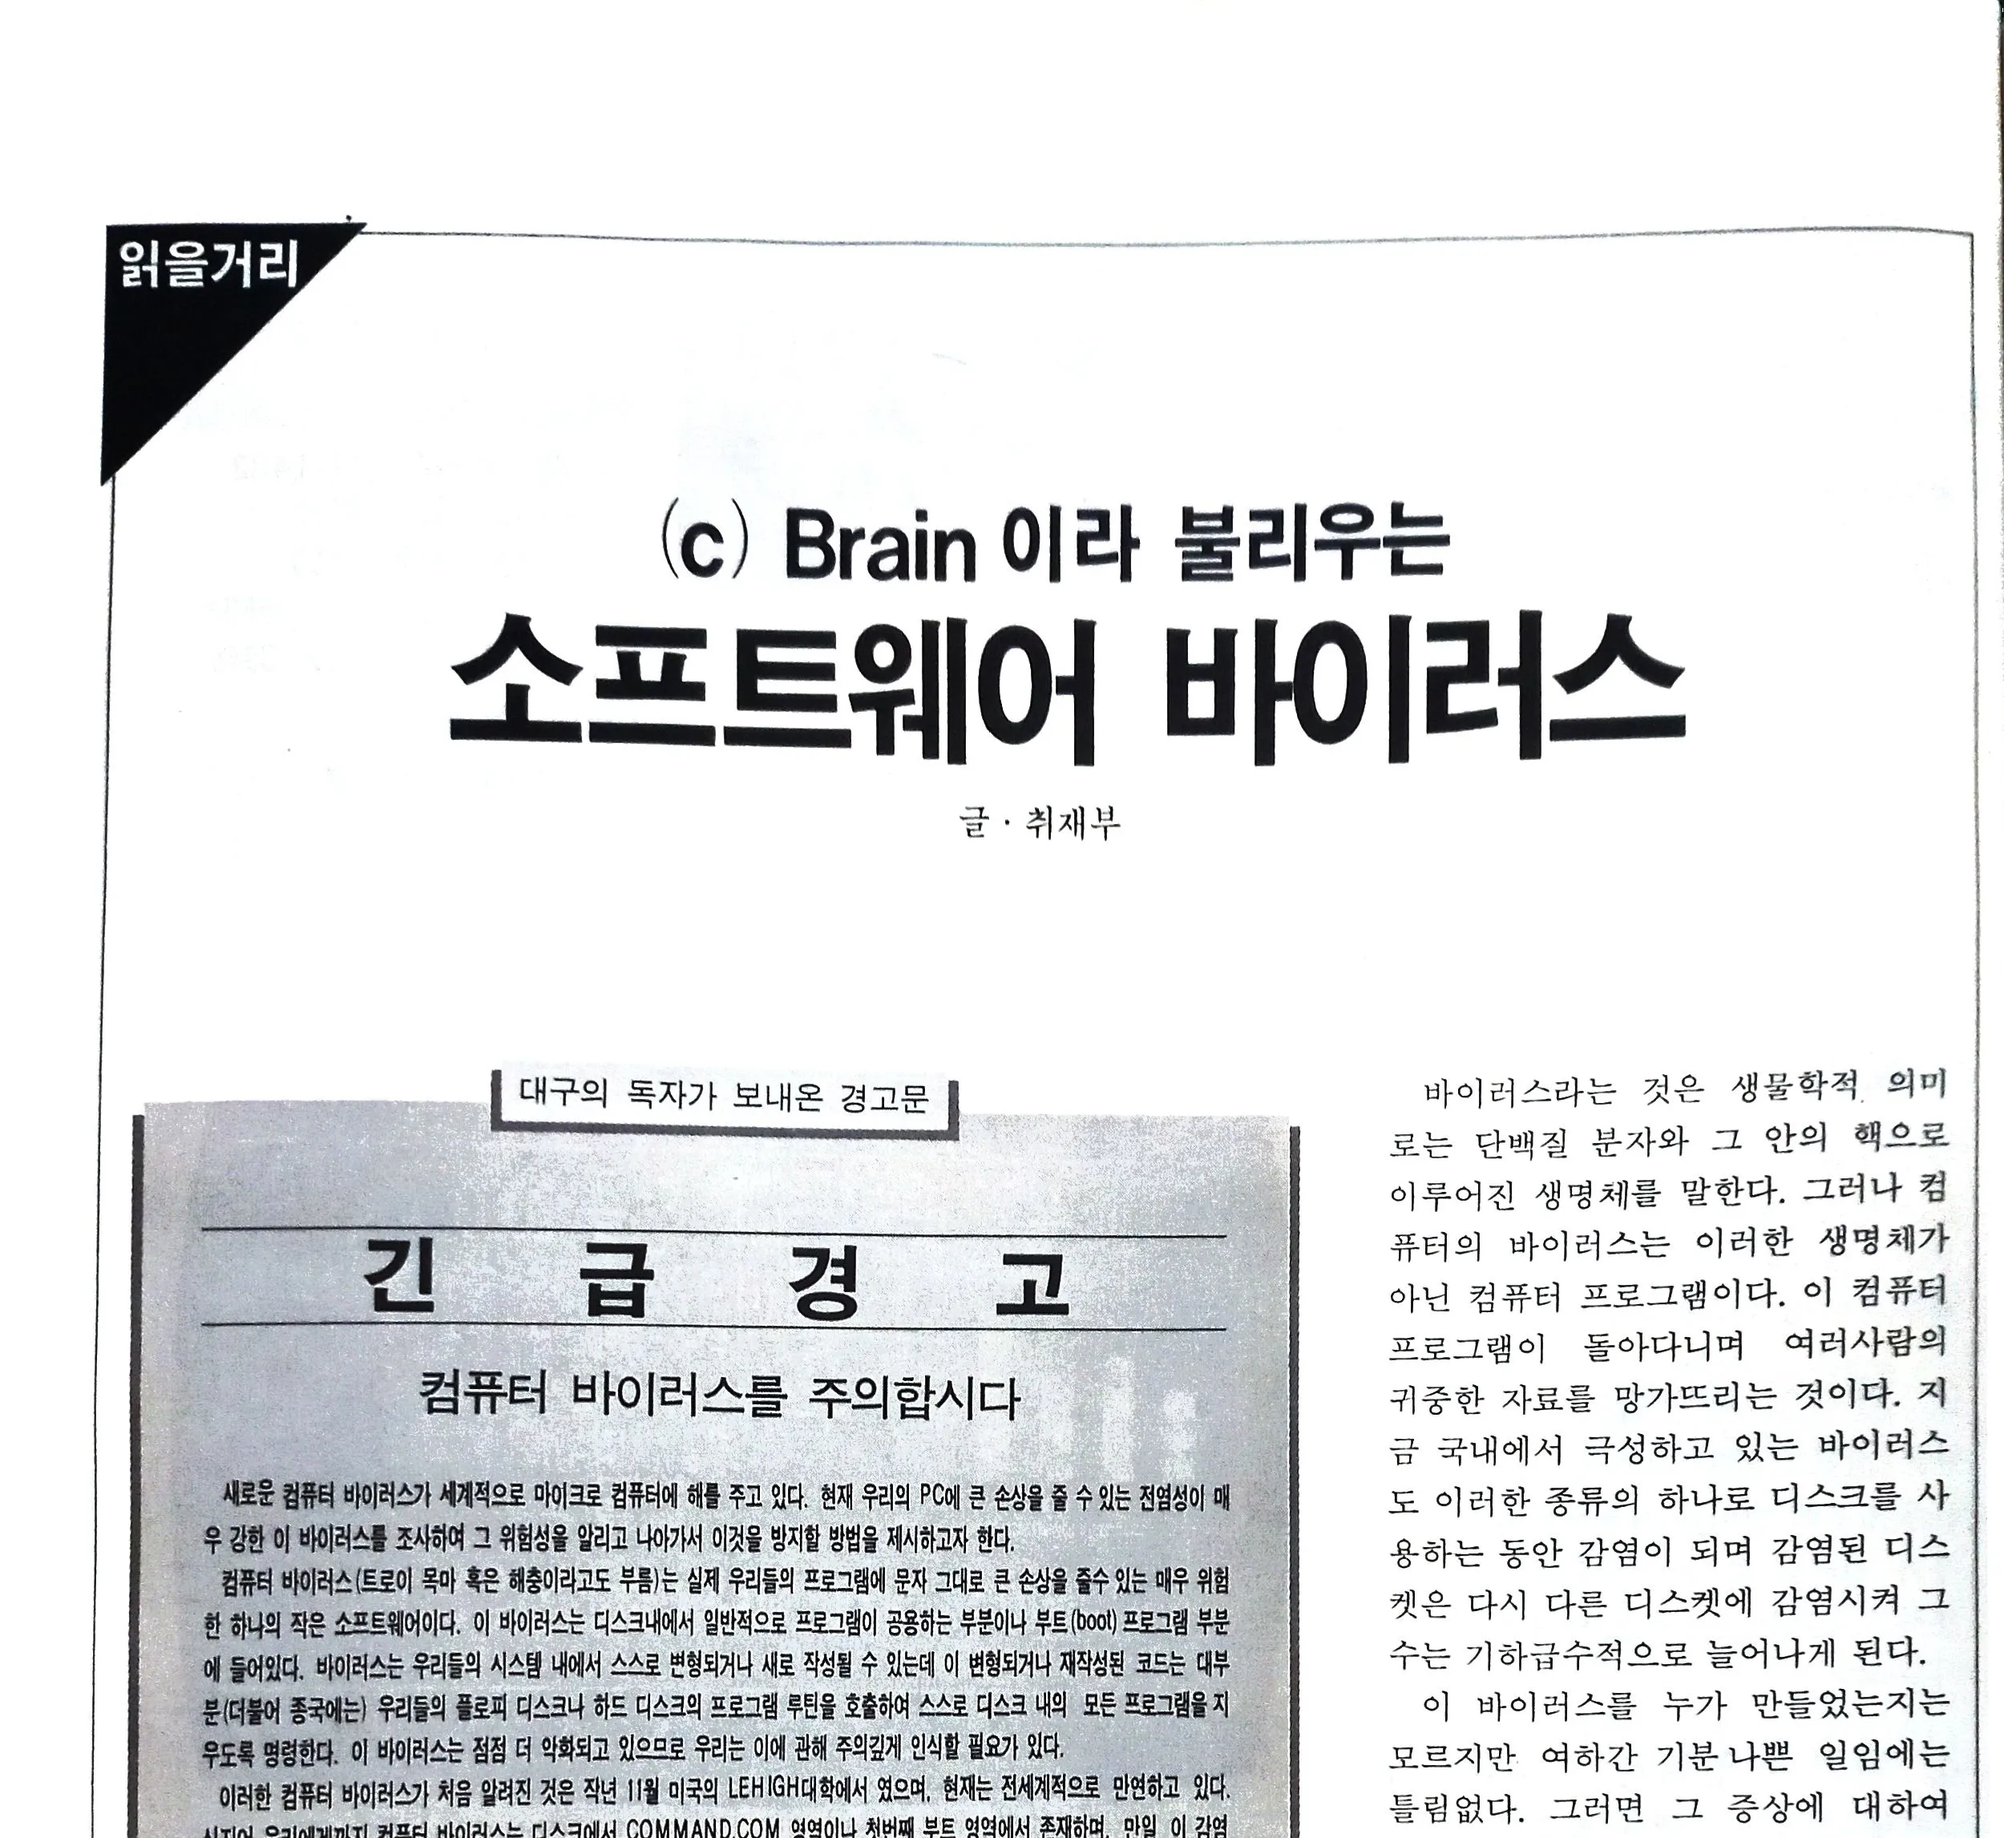
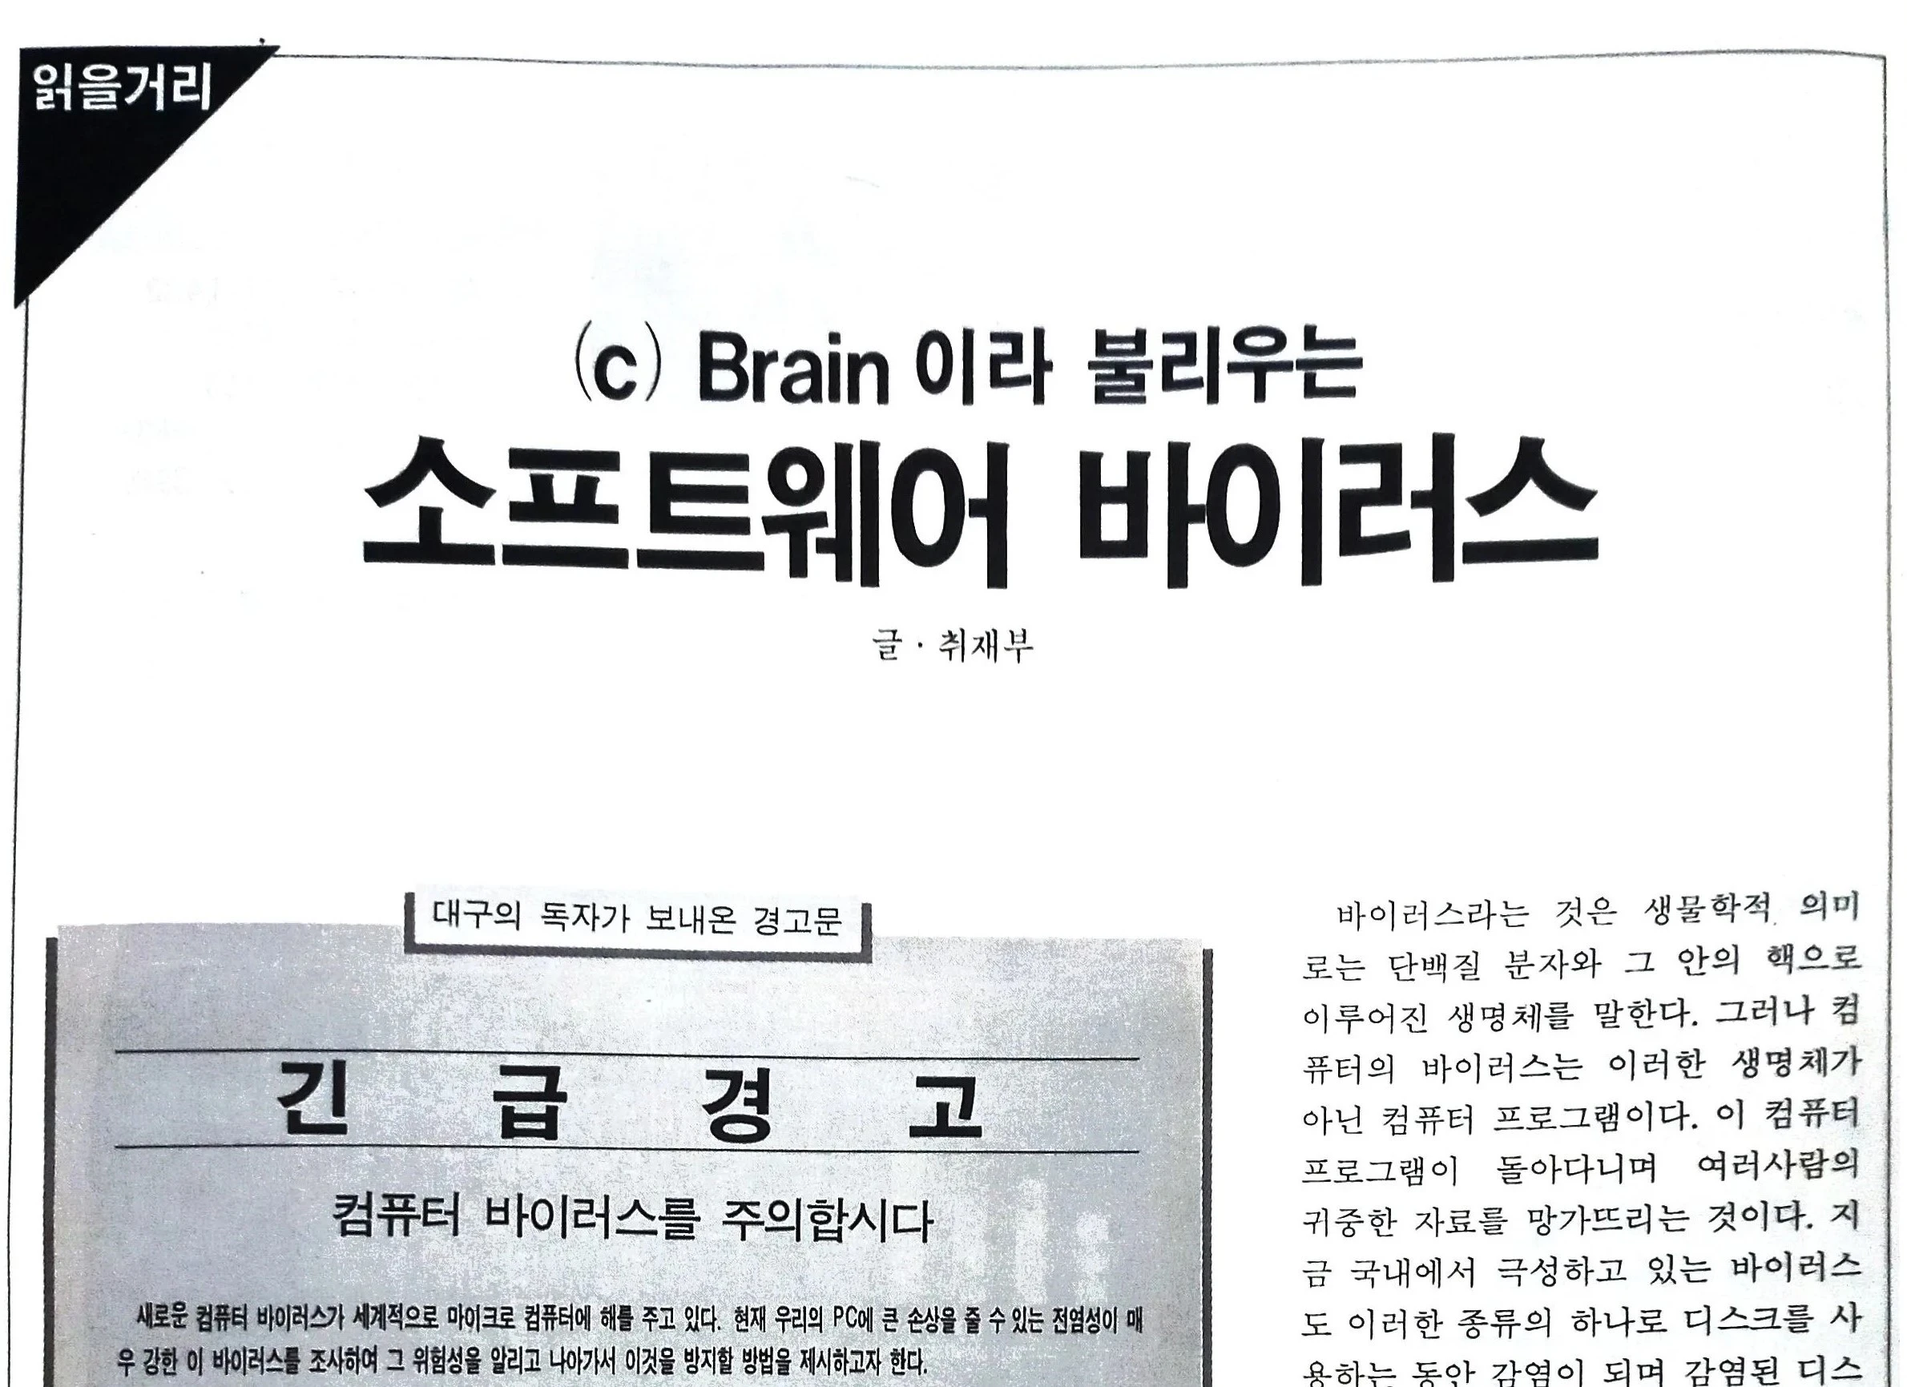
이미지 교체

diff --git a/story/section2/section.html b/story/section2/section.html
@@ -89,7 +89,7 @@
 
             <div class="carousel-inner">
               <div class="carousel-item active">
-                <img class="d-block w-100  lazyload" src="img/c_brain_maso.jpg" alt="브레인 바이러스에 관한 기사">
+                <img class="d-block w-100  lazyload" src="img/c_brain_maso.webp" alt="브레인 바이러스에 관한 기사">
               </div>
               <div class="carousel-item">
                 <img class="d-block w-100  lazyload" src="img/c_brain_maso1.webp" alt="브레인 바이러스에 감염되었음을 하소하는 글">
@@ -132,7 +132,7 @@
         <div class="image-format">
           <!-- 이미지 -->
           <div id="myCarouse" class="carousel slide  justify-content-center align-items-center" data-ride="carouse0">
-            <img class="d-block w-100 lazyload lazyload" src="img/감염.png" alt="감염된 플로피 디스크">
+            <img class="d-block w-100 lazyload lazyload" src="img/감염.webp" alt="감염된 플로피 디스크">
           </div>
 
           <!-- 캡션 -->
@@ -162,7 +162,7 @@
         <div class="image-format">
           <!-- 이미지 -->
           <div id="myCarouse" class="carousel slide  justify-content-center align-items-center" data-ride="carouse0">
-            <img class="d-block w-100 lazyload" src="img/ashar.png" alt="감염된 플로피 디스크">
+            <img class="d-block w-100 lazyload" src="img/ashar.webp" alt="감염된 플로피 디스크">
           </div>
 
           <!-- 캡션 -->
@@ -245,12 +245,12 @@
         <div class="cover"> <!-- 책 효과 -->
           <div class="book">
             <label for="page-1" class="book__page book__page--1  lazyload"> <!-- 보안 박물관 페이지 -->
-              <img src="img/maso/maso0.png">
+              <img src="img/maso/maso0.webp">
             </label>
 
             <label for="page-2" class="book__page book__page--4  lazyload"> <!-- end 페이지 -->
               <div class="page__content">
-                <img src="img/maso/maso3.png" alt="" class="book-page-image">
+                <img src="img/maso/maso3.webp" alt="" class="book-page-image">
               </div>
             </label>
 
@@ -261,10 +261,10 @@
             <input type="radio" name="page" id="page-2" />
             <label for="page-2" class="book__page book__page--2">
               <div class="book__page-front">
-                <img src="img/maso/maso1.png" alt="" class="book-page-image  lazyload">
+                <img src="img/maso/maso1.webp" alt="" class="book-page-image  lazyload">
               </div>
               <div class="book__page-back">
-                <img src="img/maso/maso2.png" alt="" class="book-page-image  lazyload">
+                <img src="img/maso/maso2.webp" alt="" class="book-page-image  lazyload">
               </div>
             </label>
           </div>
@@ -344,7 +344,7 @@
         <div class="image-format">
           <!-- 이미지 -->
           <div id="myCarousel" class="carousel slide  justify-content-center align-items-center" data-ride="carousel">
-            <img class="d-block w-100  lazyload" src="img/computer_virus.jpg" alt="이미지 3">
+            <img class="d-block w-100  lazyload" src="img/computer_virus.webp" alt="이미지 3">
           </div>
 
           <!-- 캡션 -->
